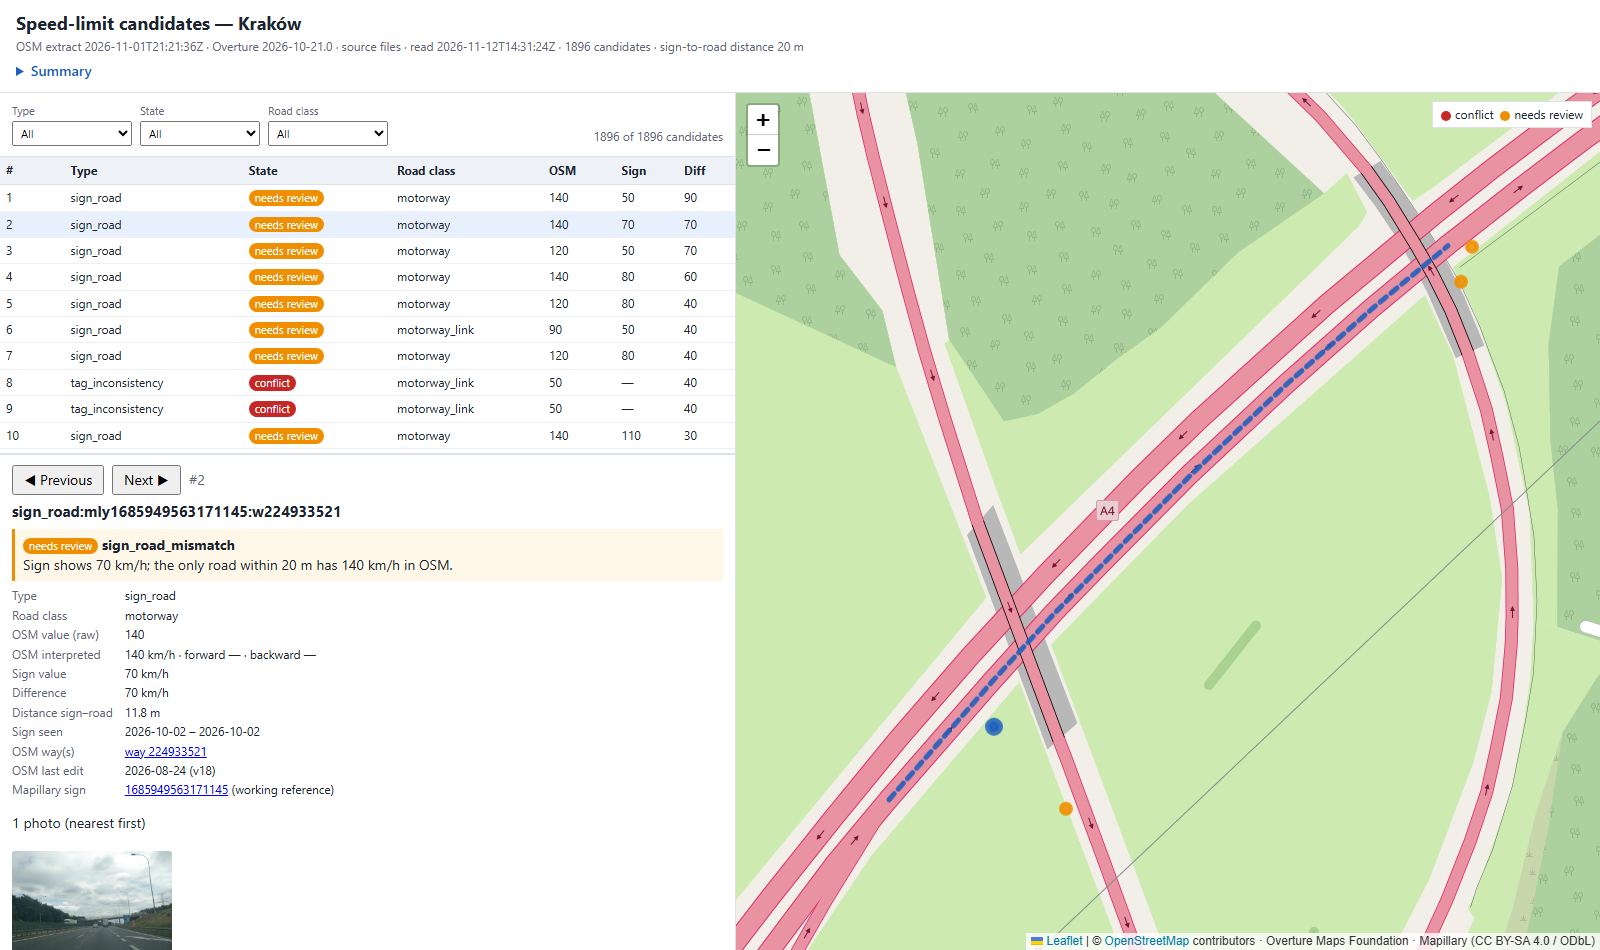
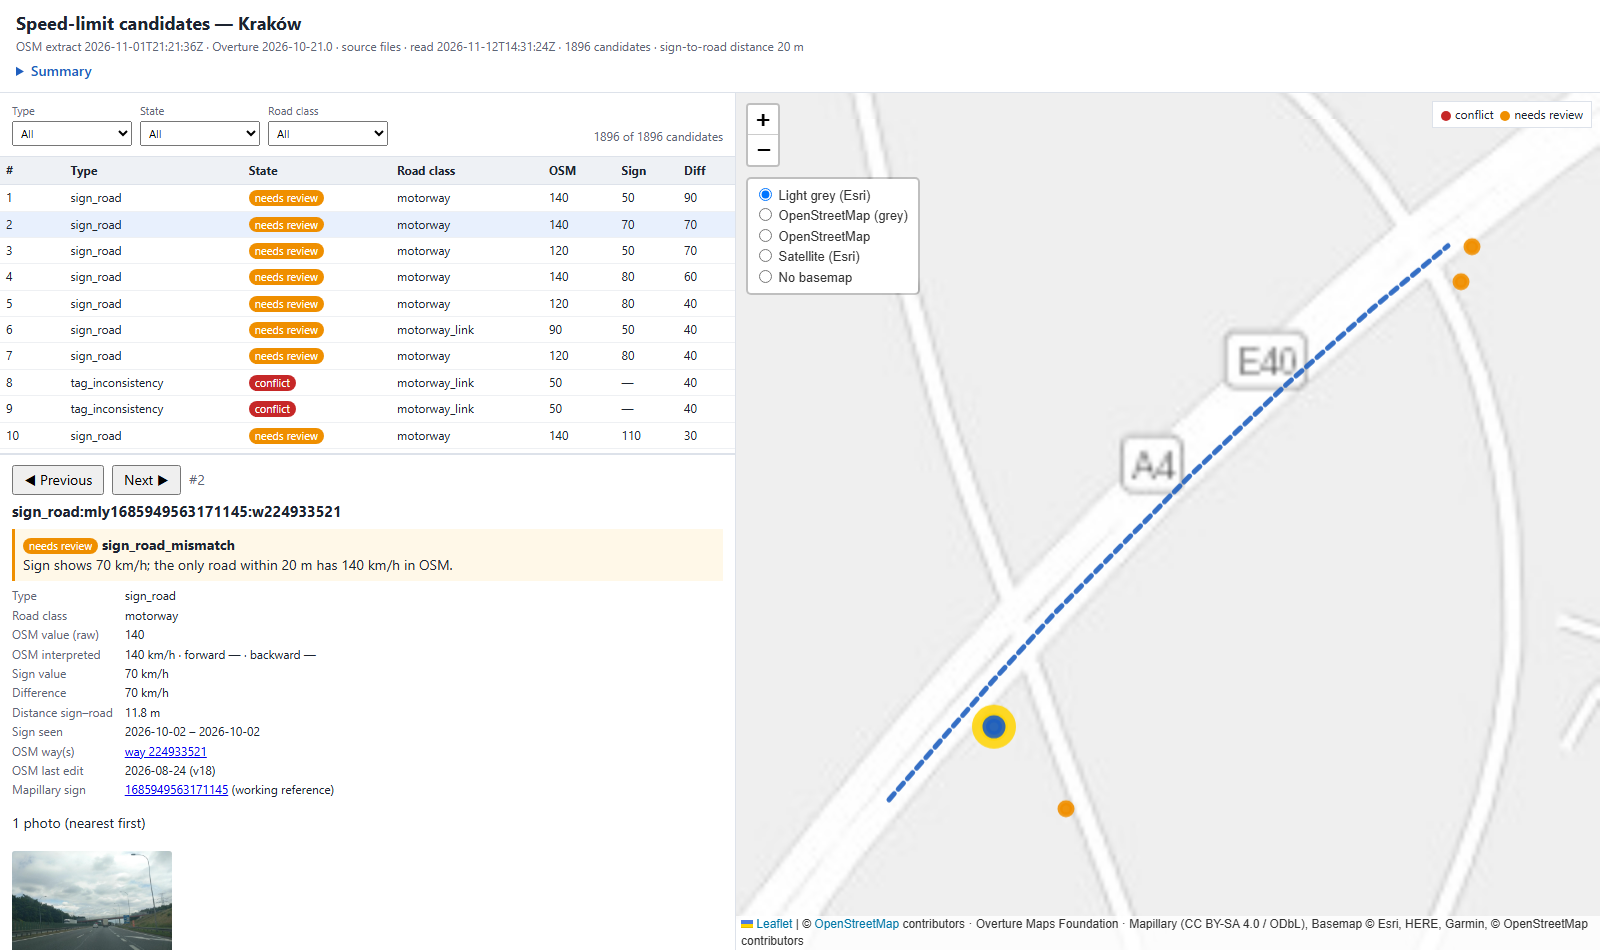
Frontend: basemap switcher with fallback (Esri grey default), clearer candidate styling

diff --git a/app/src/mapqa/outputs/viewer_template.html b/app/src/mapqa/outputs/viewer_template.html
@@ -56,6 +56,7 @@
   .photo .na { width: 160px; height: 110px; display: flex; align-items: center; justify-content: center; text-align: center;
                background: #eceff3; border-radius: 3px; padding: 6px; }
   #map { width: 100%; height: 100%; min-height: 300px; background: #e9edf2; }
+  .grey-tiles { filter: grayscale(1) brightness(1.08) contrast(0.85); }
   #mapnote { position: absolute; z-index: 1000; left: 50%; transform: translateX(-50%); top: 8px; background: #fff;
              border: 1px solid var(--line); padding: 3px 8px; font-size: 12px; display: none; }
   .right { position: relative; }
@@ -145,12 +146,42 @@
   const ROADS = DATA.roads || {};
   if (window.L) {
     map = L.map("map", { preferCanvas: true }).setView([50.05, 19.95], 11);
-    const tiles = L.tileLayer("https://tile.openstreetmap.org/{z}/{x}/{y}.png", {
-      maxZoom: 19,
-      attribution: '&copy; <a href="https://www.openstreetmap.org/copyright">OpenStreetMap</a> contributors · ' +
-        "Overture Maps Foundation · Mapillary (CC BY-SA 4.0 / ODbL)",
-    }).addTo(map);
-    tiles.on("tileerror", () => { $("mapnote").style.display = "block"; });
+    const OSM = '&copy; <a href="https://www.openstreetmap.org/copyright">OpenStreetMap</a> contributors';
+    const DATA_ATTR = " · Overture Maps Foundation · Mapillary (CC BY-SA 4.0 / ODbL)";
+    // Several basemaps: OSM tiles may be blocked for pages opened from disk (no Referer), so we fall back automatically.
+    // Candidate data is OSM/Overture/Mapillary-derived: this attribution stays visible with every basemap (AC-28).
+    map.attributionControl.addAttribution(OSM + DATA_ATTR);
+    // No-key providers only (CARTO now returns an "API KEY REQUIRED" image with HTTP 200).
+    const BASEMAPS = [
+      ["Light grey (Esri)", L.tileLayer("https://server.arcgisonline.com/ArcGIS/rest/services/Canvas/World_Light_Gray_Base/MapServer/tile/{z}/{y}/{x}",
+        { maxZoom: 19, maxNativeZoom: 16, attribution: "Basemap &copy; Esri, HERE, Garmin, &copy; OpenStreetMap contributors" })],
+      ["OpenStreetMap (grey)", L.tileLayer("https://tile.openstreetmap.org/{z}/{x}/{y}.png",
+        { maxZoom: 19, className: "grey-tiles", attribution: "Basemap: OpenStreetMap" })],
+      ["OpenStreetMap", L.tileLayer("https://tile.openstreetmap.org/{z}/{x}/{y}.png",
+        { maxZoom: 19, attribution: "Basemap: OpenStreetMap" })],
+      ["Satellite (Esri)", L.tileLayer("https://server.arcgisonline.com/ArcGIS/rest/services/World_Imagery/MapServer/tile/{z}/{y}/{x}",
+        { maxZoom: 19, attribution: "Imagery &copy; Esri" })],
+      ["No basemap", L.layerGroup()],
+    ];
+    const bases = Object.fromEntries(BASEMAPS);
+    let active = 0;
+    BASEMAPS[0][1].addTo(map);
+    L.control.layers(bases, null, { position: "topleft", collapsed: false }).addTo(map);
+    BASEMAPS.forEach(([name, tl], i) => {
+      if (!tl.on || !(tl instanceof L.TileLayer)) return;
+      let failures = 0;
+      tl.on("tileload", () => { failures = 0; if (i === active) $("mapnote").style.display = "none"; });
+      tl.on("tileerror", () => {
+        failures += 1;
+        if (i !== active || failures < 4 || i >= BASEMAPS.length - 1) return;
+        const next = BASEMAPS[i + 1];
+        map.removeLayer(tl); next[1].addTo(map);
+        $("mapnote").textContent = `Basemap "${name}" unavailable — switched to "${next[0]}"`;
+        $("mapnote").style.display = "block";
+      });
+    });
+    map.on("baselayerchange", (e) => { active = BASEMAPS.findIndex(([n]) => n === e.name); $("mapnote").style.display = "none"; });
+    map.on("layeradd", (e) => { const i = BASEMAPS.findIndex(([, tl]) => tl === e.layer); if (i >= 0) active = i; });
   } else {
     $("map").innerHTML = '<p class="empty">Map unavailable (no network for the map library). ' +
       "© OpenStreetMap contributors · Overture Maps Foundation · Mapillary (CC BY-SA 4.0 / ODbL)</p>";
@@ -159,10 +190,14 @@
     if (!map) return;
     if (layer) layer.remove();
     Object.keys(layersById).forEach((k) => delete layersById[k]);
-    const features = filtered.filter((c) => c.geometry).map((c) => ({ type: "Feature", geometry: c.geometry, properties: { id: c.candidate_id, state: c.state } }));
+    // conflicts are drawn last so the (fewer, stronger) red candidates stay on top of the review points
+    const features = filtered.filter((c) => c.geometry)
+      .sort((a, b) => (a.state === "conflict") - (b.state === "conflict"))
+      .map((c) => ({ type: "Feature", geometry: c.geometry, properties: { id: c.candidate_id, state: c.state } }));
     layer = L.geoJSON({ type: "FeatureCollection", features }, {
-      style: (f) => ({ color: COLORS[f.properties.state], weight: 4, opacity: 0.85 }),
-      pointToLayer: (f, latlng) => L.circleMarker(latlng, { radius: 5, color: COLORS[f.properties.state], weight: 1, fillOpacity: 0.85 }),
+      style: (f) => ({ color: COLORS[f.properties.state], fillColor: COLORS[f.properties.state], weight: 5, opacity: 0.9, fillOpacity: 0.95 }),
+      pointToLayer: (f, latlng) => L.circleMarker(latlng, { radius: 6, color: "#ffffff", weight: 1.5,
+        fillColor: COLORS[f.properties.state], fillOpacity: 0.95 }),
       onEachFeature: (f, l) => { layersById[f.properties.id] = l; l.on("click", () => select(f.properties.id, true)); },
     }).addTo(map);
   }
@@ -239,7 +274,13 @@
       }
       if (layer) layer.resetStyle();
       if (l) {
-        if (l.setStyle) l.setStyle({ weight: 8, color: "#1f5fbf", fillColor: "#1f5fbf" });
+        // selected candidate: yellow halo (visible on grey, OSM and satellite basemaps) + strong blue on top
+        const geom = c.geometry;
+        const halo = L.geoJSON(geom, { style: { color: "#ffd400", weight: 16, opacity: 0.85 },
+          pointToLayer: (f, ll) => L.circleMarker(ll, { radius: 14, color: "#1f5fbf", weight: 3, fillColor: "#ffd400", fillOpacity: 0.7 }) });
+        context = context ? L.featureGroup([halo, context]) : halo;
+        context.addTo(map);
+        if (l.setStyle) l.setStyle({ weight: 7, color: "#1f5fbf", fillColor: "#1f5fbf", radius: 8 });
         if (l.bringToFront) l.bringToFront();
         const bounds = context ? context.getBounds() : null;
         if (l.getBounds) { const b = l.getBounds(); map.fitBounds(bounds ? b.extend(bounds) : b, { maxZoom: 18, padding: [40, 40] }); }

diff --git a/app/tests/unit/test_viewer.py b/app/tests/unit/test_viewer.py
@@ -25,4 +25,10 @@ def test_render_embeds_data_safely():
     assert "OpenStreetMap contributors" in html
     assert "leaflet@1.9.4" in html
     assert "No candidates match the filters" in html
+    # several basemaps with automatic fallback (OSM tiles may be blocked for file:// pages)
+    # CARTO was dropped on 2026-11-12: it now answers 200 with an "API KEY REQUIRED" image, which no fallback can detect
+    for marker in ("World_Light_Gray_Base", "tile.openstreetmap.org", "OpenStreetMap (grey)", "World_Imagery",
+                   "No basemap", "Esri"):
+        assert marker in html, marker
+    assert "cartocdn" not in html
     assert "error" not in re.sub(r"<script.*?</script>", "", html, flags=re.S).lower()

diff --git a/docs/ADR/003-viewer.md b/docs/ADR/003-viewer.md
@@ -19,7 +19,10 @@ Not covered: recording verdicts (AC-23, AC-24), review-status filter, a server, 
 | Library | Context7 ID or official docs | Used for |
 |---|---|---|
 | Leaflet 1.9.4 (from `unpkg.com/leaflet@1.9.4`) | https://leafletjs.com/reference.html | Map, GeoJSON layers, popups, fit bounds |
-| OpenStreetMap standard tiles | https://operations.osmfoundation.org/policies/tiles/ | Background map; attribution required, low volume only |
+| Esri World Light Gray Canvas (default), Esri World Imagery | https://server.arcgisonline.com/ArcGIS/rest/services/Canvas/World_Light_Gray_Base/MapServer | Calm grey default basemap so candidate colours stand out; satellite option. No key required (verified 2026-11-12) |
+| OpenStreetMap standard tiles (colour and CSS-greyscale variants) | https://operations.osmfoundation.org/policies/tiles/ | Optional basemaps; attribution required, low volume only; may be blocked for `file://` pages without Referer |
+
+**Basemaps (revised 2026-11-12 after user feedback "hard to see / no access to the basemap"):** a layer switcher offers Light grey (Esri, default), OpenStreetMap (grey), OpenStreetMap, Satellite (Esri) and No basemap; after 4 tile failures the viewer switches to the next basemap and says so on the map. CARTO was rejected: it now returns HTTP 200 with an "API KEY REQUIRED" image, which no fallback can detect. Data attribution (OSM, Overture, Mapillary) is a fixed part of the attribution control, independent of the basemap. Conflicts are drawn above review points; the selected candidate has a yellow halo.
 | Python `json`, `html`, `string.Template` | https://docs.python.org/3.12/library/string.html#template-strings | Generating the page |
 | Playwright for Python (msedge channel) | https://playwright.dev/python/docs/browsers#google-chrome--microsoft-edge | Manual QA screenshots (dev tool, not a runtime dependency) |
 
